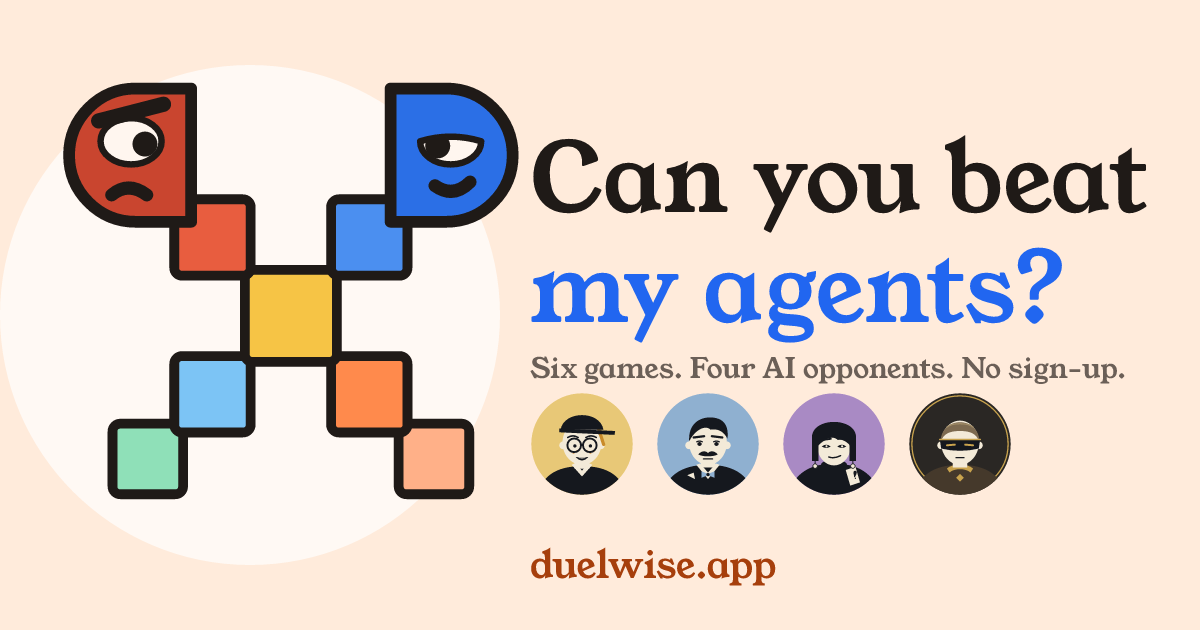
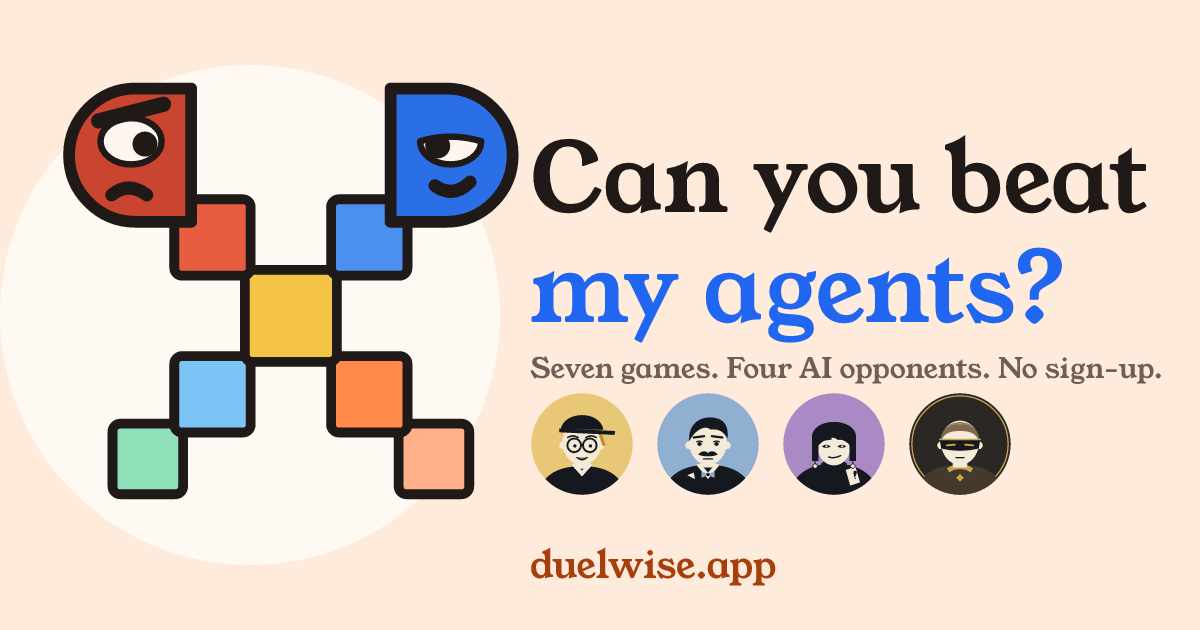
task F7 fix1: honest Stormglass learn and strip copy, guide win line, game-fleet and sea tokens, music and og checks, README row

Changed region(s): [[0.4625, 0.573, 0.9867, 0.6032]]

diff --git a/apps/web/src/lib/tile-copy.ts b/apps/web/src/lib/tile-copy.ts
@@ -1,4 +1,4 @@
-import { PRODUCT, type GameId, type Level } from '@duelwise/core/src/product'
+import { PRODUCT, gameCountWord, type GameId, type Level } from '@duelwise/core/src/product'
 import { personaFor } from '../personas'
 import type { RegistrySummary } from '../server/stats'
 
@@ -44,6 +44,9 @@ export function tileNote(game: GameId, reg: RegistrySummary): string {
   return `${base} ${named(top.level)} site Elo ${Math.round(top.siteElo!)}.${tail}`
 }
 
+/** Lowercase count word for the copy; digits below six, where gameCountWord has no word. */
+const countWord = (n: number) => (n >= 6 && n <= 10 ? gameCountWord(n).toLowerCase() : String(n))
+
 export interface LearningFacts {
   game: GameId
   learnsFromHumans: boolean
@@ -55,17 +58,17 @@ export interface LearningFacts {
 
 /**
  * The third stat on the landing strip, from the same flags the honesty rule reads. A game that learns from people says how many
- * human matches its newest retrain used (zero is said as zero); the others are named as self-play.
+ * human matches its newest retrain used (zero is said as zero); the others are said not to learn from matches yet (some train by self-play, Word Duel and Stormglass are scripted solvers).
  */
 export function learningStrip(facts: LearningFacts[]): { headline: string; body: string } {
   const learners = facts.filter((f) => f.learnsFromHumans)
   const others = facts.length - learners.length
-  if (learners.length === 0) return { headline: 'Self-play', body: `All ${facts.length} games train by self-play and against test bots, not from your matches yet.` }
+  if (learners.length === 0) return { headline: 'Self-play', body: `None of the ${facts.length} games learn from your matches yet.` }
   const f = learners[0]!
   const name = PRODUCT.games[f.game].displayName
   const when = f.promotedAt ? new Date(f.promotedAt) : null
   const day = when && !Number.isNaN(when.getTime()) ? `${MONTHS[when.getUTCMonth()]} ${when.getUTCDate()}` : null
-  const tail = others > 0 ? ` The other ${others === 5 ? 'five' : others} train by self-play.` : ''
+  const tail = others > 0 ? ` The other ${countWord(others)} do not learn from your matches yet.` : ''
   const retrained = f.parent && day ? `retrained ${day}` : null
   if (retrained && f.humanMatchesUsed > 0) return { headline: `${name} ${f.version}`, body: `${retrained} from ${f.humanMatchesUsed.toLocaleString('en-US')} human matches.${tail}` }
   if (retrained) return { headline: `${name} ${f.version}`, body: `${retrained} on self-play; it has not used human matches yet.${tail}` }

diff --git a/apps/web/src/components/how-to-play-data.ts b/apps/web/src/components/how-to-play-data.ts
@@ -41,8 +41,8 @@ export const guides: Record<GameId, Guide> = {
   fleet: {
     goal: 'Sink all five of the other fleet before yours goes down.',
     steps: ['Place five ships on your grid: lengths 5, 4, 3, 3 and 2. Tap a ship, then tap where its front goes. Rotate switches across and down. Shuffle fleet does it in one tap.', 'Take turns firing at the other grid. Tap a square to aim, then tap it again or press Fire.', 'A flame means a hit, a grey dot means a miss. When every square of a ship is hit, it is sunk and shown in full.', 'The fleet tally shows which of their ships are still afloat.'],
-    controls: [{ keys: 'Touch or mouse', action: 'tap a square to aim, tap again or press Fire to shoot' }, { keys: 'Arrow keys', action: 'move between squares' }, { keys: 'Enter or Space', action: 'aim, then fire' }, { keys: 'R', action: 'rotate the ship you are placing' }],
-    win: 'Sink all five ships first. If both fleets go down on the same turn, the match is a draw.', tip: 'Their smallest ship is 2 long: when only it is left, it hides in the gaps you have not checked.',
+    controls: [{ keys: 'Touch or mouse', action: 'tap a square to aim, tap again or press Fire to shoot' }, { keys: 'Enter or Space', action: 'aim, then fire' }],
+    win: 'Sink all five ships first. The first fleet to go down loses, so there are no draws.', tip: 'Their smallest ship is 2 long: when only it is left, it hides in the gaps you have not checked.',
   },
 }
 

diff --git a/apps/web/scripts/generate-og.ts b/apps/web/scripts/generate-og.ts
@@ -1,6 +1,7 @@
 import { readFile, writeFile, mkdir } from 'node:fs/promises'
 import { createRequire } from 'node:module'
 import { initWasm, Resvg } from '@resvg/resvg-wasm'
+import { gameCountWord } from '../../../packages/core/src/product'
 
 // The link-preview image (Open Graph, 1200x630): public/og/duelwise-og.png.
 // Run: bun apps/web/scripts/generate-og.ts   (or tsx). Uses the X1 mark, the four persona portraits and Young Serif.
@@ -26,7 +27,7 @@ const svg = `<svg xmlns="http://www.w3.org/2000/svg" width="1200" height="630" v
 <g transform="translate(40 65) scale(0.98)">${inner}</g>
 <text x="530" y="212" font-family="Young Serif" font-size="96" fill="#1f1a17">Can you beat</text>
 <text x="530" y="322" font-family="Young Serif" font-size="96" fill="#2166f0">my agents?</text>
-<text x="530" y="378" font-family="Young Serif" font-size="28" fill="#6b5f57">Six games. Four AI opponents. No sign-up.</text>
+<text x="530" y="378" font-family="Young Serif" font-size="28" fill="#6b5f57">${gameCountWord()} games. Four AI opponents. No sign-up.</text>
 ${avatars}
 <text x="530" y="578" font-family="Young Serif" font-size="38" fill="#a63f0c">duelwise.app</text>
 </svg>`

diff --git a/apps/web/src/lib/tile-copy.test.ts b/apps/web/src/lib/tile-copy.test.ts
@@ -1,0 +1,17 @@
+import { expect, test } from 'bun:test'
+import type { GameId } from '@duelwise/core/src/product'
+import { learningStrip, type LearningFacts } from './tile-copy'
+
+const GAMES: GameId[] = ['four', 'chess', 'holdem', 'word', 'fighter', 'arena', 'fleet']
+const facts = (): LearningFacts[] =>
+  GAMES.map((game) => ({ game, learnsFromHumans: game === 'four', version: game === 'four' ? 'v2' : null, promotedAt: game === 'four' ? '2026-10-22T10:00:00Z' : null, parent: game === 'four' ? 'v1' : null, humanMatchesUsed: 0 }))
+
+test('with seven games the strip spells the count and never says a scripted solver trains by self-play', () => {
+  const s = learningStrip(facts())
+  expect(s.headline).toBe('Four in a Row v2')
+  expect(s.body).toBe('retrained Oct 22 on self-play; it has not used human matches yet. The other six do not learn from your matches yet.')
+})
+test('no learner says so for the whole set, without a digit-free claim of self-play', () => {
+  const s = learningStrip(facts().map((f) => ({ ...f, learnsFromHumans: false })))
+  expect(s.body).toBe('None of the 7 games learn from your matches yet.')
+})

diff --git a/apps/web/src/lib/learn-copy.ts b/apps/web/src/lib/learn-copy.ts
@@ -12,10 +12,16 @@ const f2 = (v: number) => v.toFixed(2)
 
 /**
  * The words next to the graph. Where a game learns from people it says exactly what the newest version used and beat; where it does not,
- * it says so and names the real sources (self-play and test bots). It never says every match trains the AI.
+ * it says so and names the real sources (self-play and test bots, or a scripted solver for Word Duel and Stormglass). It never says every match trains the AI.
  */
 export function learnCopy(i: { game: GameId; learns: boolean; champion: ChampionFacts | null; sinceCount: number; sinceEligible: number }): { title: string; body: string } {
   const name = PRODUCT.games[i.game].displayName
+  if (i.game === 'fleet') {
+    return {
+      title: `${name} is a scripted solver with nothing to train.`,
+      body: `${name} is a scripted solver, not a learned model: each level is a different algorithm, so there is nothing to train. Your match is recorded for your report and the board.`,
+    }
+  }
   if (!i.learns) {
     return {
       title: `${name} trains by self-play and test bots.`,

diff --git a/apps/web/src/lib/learn-copy.test.ts b/apps/web/src/lib/learn-copy.test.ts
@@ -6,6 +6,12 @@ test('a game that does not learn says self-play and test bots, never that every 
   expect(c.body).toBe('Word Duel trains by self-play and against test bots, not from your matches yet. Your match is recorded for your report and the board.')
   expect(c.body).not.toMatch(/every match/i)
 })
+test('Stormglass is a scripted solver: it never claims self-play or training', () => {
+  const c = learnCopy({ game: 'fleet', learns: false, champion: null, sinceCount: 4, sinceEligible: 0 })
+  expect(`${c.title} ${c.body}`).not.toMatch(/self-play|trains/i)
+  expect(c.body).toContain('scripted solver')
+  expect(c.body).toContain('Your match is recorded for your report and the board.')
+})
 test('a learning game reports what the newest version used and beat, from the gate', () => {
   const c = learnCopy({ game: 'four', learns: true, champion: { version: 'v2', parent: 'v1', humanMatchesUsed: 1800, gate: { score: 0.61125, n: 400, ci95: [0.562637, 0.657747] } }, sinceCount: 2140, sinceEligible: 1900 })
   expect(c.title).toBe('This game learns from your matches.')

diff --git a/apps/web/src/styles/tokens.css b/apps/web/src/styles/tokens.css
@@ -48,6 +48,17 @@
   --game-word: #8a3ff5;
   --game-fighter: #e8500e;
   --game-arena: #0a95b8;
+  --game-fleet: #1b4d7a;
+
+  /* stormglass surfaces */
+  --sea: #dcecf6;
+  --sea-line: #9fbfd6;
+  --sea-deep: #b7d3e6;
+  --hull: #4a5568;
+  --hull-edge: #2d3748;
+  --hit: #e8500e;
+  --miss: #64748b;
+  --sunk: #8f1f1b;
 
   /* game surfaces */
   --board-light: #ece3d0;
@@ -176,6 +187,15 @@
   --color-game-word: var(--game-word);
   --color-game-fighter: var(--game-fighter);
   --color-game-arena: var(--game-arena);
+  --color-game-fleet: var(--game-fleet);
+  --color-sea: var(--sea);
+  --color-sea-line: var(--sea-line);
+  --color-sea-deep: var(--sea-deep);
+  --color-hull: var(--hull);
+  --color-hull-edge: var(--hull-edge);
+  --color-hit: var(--hit);
+  --color-miss: var(--miss);
+  --color-sunk: var(--sunk);
   --color-board-light: var(--board-light);
   --color-board-dark: var(--board-dark);
   --color-coord-on-light: var(--coord-on-light);

diff --git a/apps/web/src/dev-views/fleet.tsx b/apps/web/src/dev-views/fleet.tsx
@@ -38,18 +38,6 @@ registerSounds({
   'fleet-sunk': `${BASE}/interface-sounds/confirmation_002.ogg`,
 })
 
-const PALETTE = {
-  '--sea': '#dcecf6',
-  '--sea-line': '#9fbfd6',
-  '--sea-deep': '#b7d3e6',
-  '--hull': '#4a5568',
-  '--hull-edge': '#2d3748',
-  '--hit': '#e8500e',
-  '--miss': '#64748b',
-  '--sunk': '#8f1f1b',
-  '--game-fleet': '#1b4d7a',
-} as CSSProperties
-
 const LEVELS: Array<{ id: Level; label: string }> = [
   { id: 'easy', label: 'Easy' },
   { id: 'medium', label: 'Medium' },
@@ -532,7 +520,6 @@ export default function FleetView() {
       data-testid="fleet-page"
       data-turn={pageTurn}
       data-phase={match ? 'play' : 'setup'}
-      style={PALETTE}
     >
       <h1 className="font-display text-display-md">Stormglass (dev page)</h1>
 

diff --git a/apps/web/src/lib/music.test.ts b/apps/web/src/lib/music.test.ts
@@ -65,7 +65,7 @@ afterEach(() => {
 
 describe('mood for a game', () => {
   test('each game has its loop; there is no lobby loop', () => {
-    for (const g of ['chess', 'four', 'word']) expect(moodForGame(g)).toBe('board')
+    for (const g of ['chess', 'four', 'word', 'fleet']) expect(moodForGame(g)).toBe('board')
     expect(moodForGame('holdem')).toBe('poker')
     for (const g of ['fighter', 'arena']) expect(moodForGame(g)).toBe('action')
     expect(moodForGame('nope')).toBeNull()

diff --git a/README.md b/README.md
@@ -53,6 +53,7 @@ On a phone, Tinderbox and Coldstore have touch controls, and the app installs an
 | Word Duel | A solver, not a learned model. Levels differ in how often the solver overlooks a clue. | No (nothing to train) |
 | Tinderbox | A neural policy trained by reinforcement learning in a league of its own past versions, with scripted test bots as the yardstick. | No |
 | Coldstore | The same method as Tinderbox. | No |
+| Stormglass | A scripted solver, not a learned model. Each level is a different algorithm. | No (nothing to train) |
 
 "Learning from you, starting with Four in a Row", the line on the product, is where this stands. Making human matches train all seven is on the roadmap.
 
